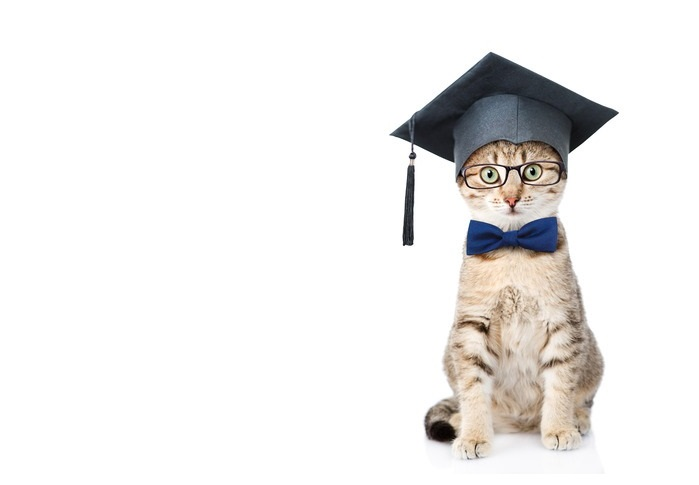
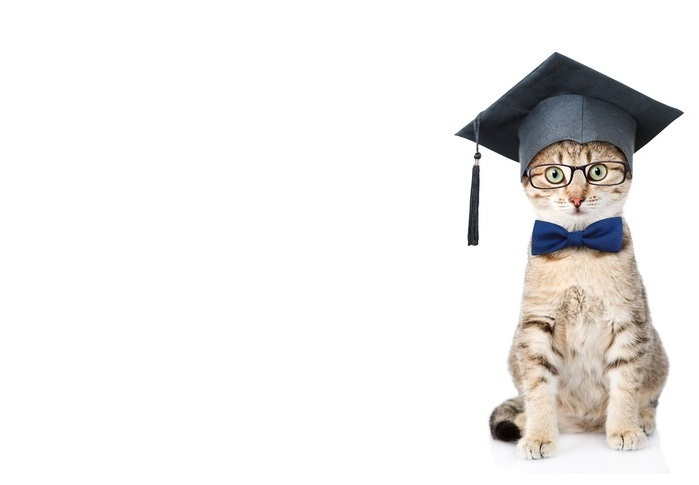
фикс верстки слайдера

Changed region(s): [[0.5408, 0.0928, 0.9914, 0.9588]]

diff --git a/frontend/src/components/Index.jsx b/frontend/src/components/Index.jsx
@@ -7,10 +7,10 @@ function Index(props) {
     }
 
     return (
-        <main class="main">
+        <main class="main container">
             <section class="main__slider">
                 <div class="main__slideItem">
-                    <div class="slideItem__content container">
+                    <div class="slideItem__content">
                         <div class="slideItem__left">
                             <div class="slideItem__text">
                                 <div class="slideItem__title">
@@ -27,18 +27,6 @@ function Index(props) {
                                         <li>познакомитесь с Javascript</li>
                                         <li>получите опыт в командной разработке</li>
                                     </ul>
-                                    <div class="arrows slideItem__descriptionLine">
-                                        <div class="arrow arrow-prew">
-                                            <svg width="48" height="48" viewBox="0 0 48 48" fill="none" xmlns="http://www.w3.org/2000/svg">
-                                                <path d="M27.6264 10.3882C30.6414 8.68235 34.3723 10.8801 34.3421 14.344L34.1154 40.3238C34.0851 43.7878 30.3164 45.92 27.3316 44.1619L4.94584 30.9756C1.96107 29.2175 1.99886 24.8875 5.01386 23.1817L27.6264 10.3882Z" fill="white" stroke="#587AB0"></path>
-                                            </svg>
-                                        </div>
-                                        <div class="arrow arrow-next">
-                                            <svg width="49" height="47" viewBox="0 0 49 47" fill="none" xmlns="http://www.w3.org/2000/svg">
-                                                <path d="M20.9813 9.53742L43.5938 22.331C46.6088 24.0368 46.6466 28.3667 43.6619 30.1249L21.2761 43.3111C18.2913 45.0693 14.5226 42.937 14.4923 39.4731L14.2656 13.4933C14.2354 10.0293 17.9663 7.83161 20.9813 9.53742Z" stroke="#587AB0"></path>
-                                            </svg>
-                                        </div>
-                                    </div>
                                 </div>
                             </div>
                         </div>
@@ -47,6 +35,18 @@ function Index(props) {
                         </div>
                     </div>
                     <div class="slideItem__background"></div>
+                </div>
+                <div class="main__slider-arrows arrows">
+                    <div class="arrow arrow-prew">
+                        <svg width="48" height="48" viewBox="0 0 48 48" fill="none" xmlns="http://www.w3.org/2000/svg">
+                            <path d="M27.6264 10.3882C30.6414 8.68235 34.3723 10.8801 34.3421 14.344L34.1154 40.3238C34.0851 43.7878 30.3164 45.92 27.3316 44.1619L4.94584 30.9756C1.96107 29.2175 1.99886 24.8875 5.01386 23.1817L27.6264 10.3882Z" fill="white" stroke="#587AB0"></path>
+                        </svg>
+                    </div>
+                    <div class="arrow arrow-next">
+                        <svg width="49" height="47" viewBox="0 0 49 47" fill="none" xmlns="http://www.w3.org/2000/svg">
+                            <path d="M20.9813 9.53742L43.5938 22.331C46.6088 24.0368 46.6466 28.3667 43.6619 30.1249L21.2761 43.3111C18.2913 45.0693 14.5226 42.937 14.4923 39.4731L14.2656 13.4933C14.2354 10.0293 17.9663 7.83161 20.9813 9.53742Z" stroke="#587AB0"></path>
+                        </svg>
+                    </div>
                 </div>
             </section>
         </main>

diff --git a/frontend/public/assets/css/index.css b/frontend/public/assets/css/index.css
@@ -1,12 +1,19 @@
 .main__slider {
     height: 600px;
     overflow: hidden;
+    position: relative;
 }
 
 .main__slideItem {
     width: 100%;
     height: 100%;
     position: relative;
+}
+
+.main__slider-arrows {
+    position: absolute;
+    left: 0;
+    bottom: 24px;
 }
 
 .slideItem__content {
